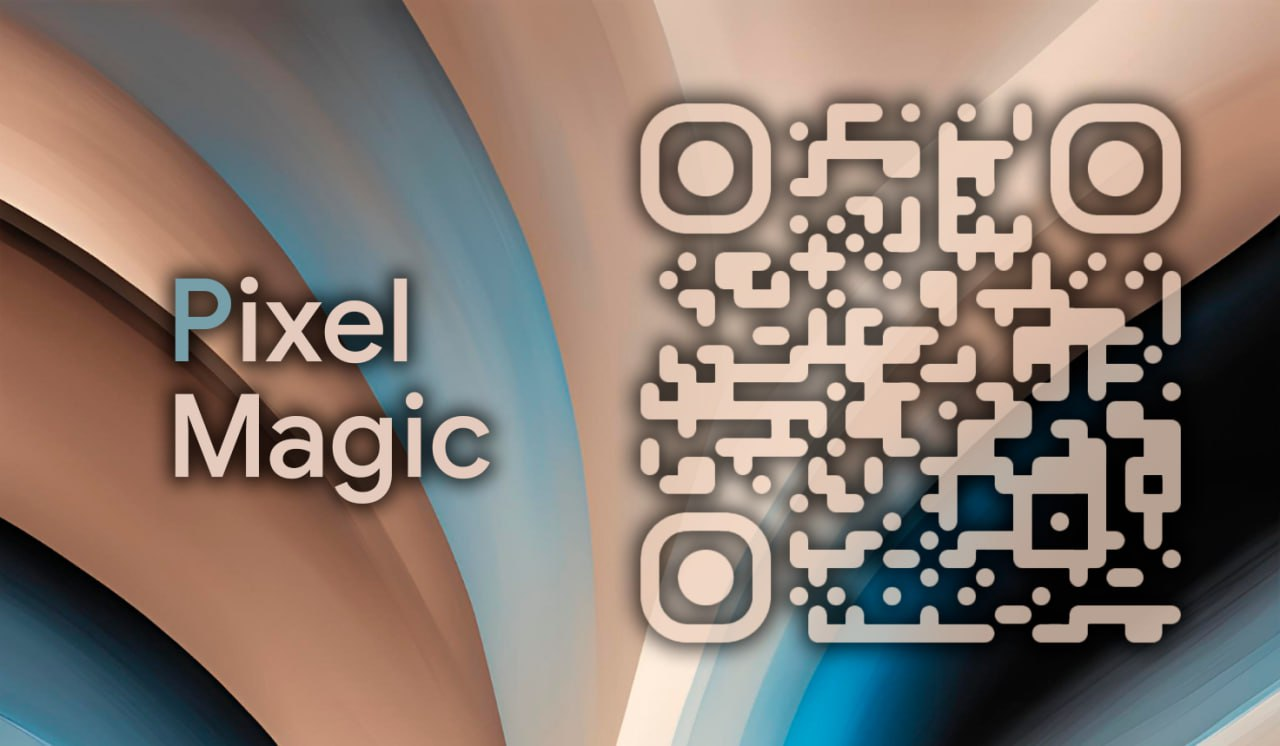
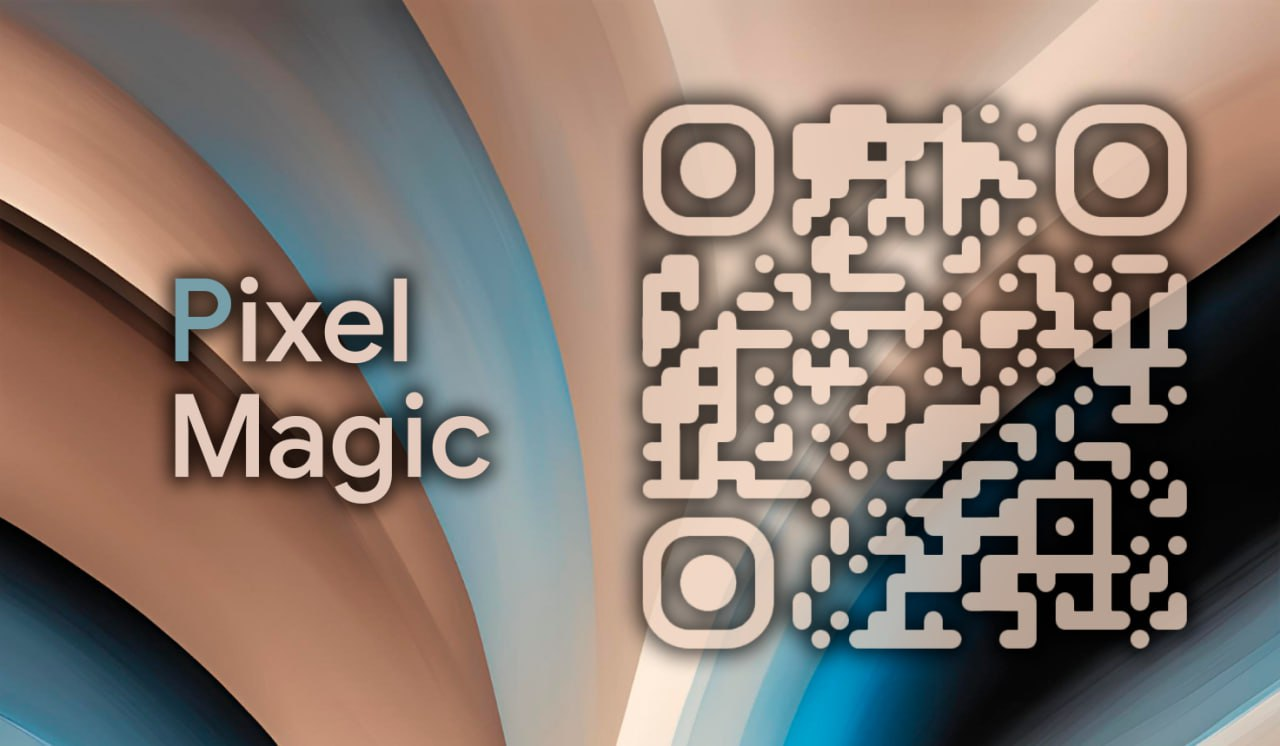
update pixelmagic

Changed region(s): [[0.4688, 0.1233, 0.9375, 0.8941]]

diff --git a/blogs/news.md b/blogs/news.md
@@ -1,6 +1,7 @@
 # News - Updates, releases, and more.
 
 ## Posts
+- [06-05-2025 - QPR2 Update for PixelMagic.](/blog/news#06-05-2025---qpr2-update-for-pixelmagic.)
 - [04-05-2025 - PixelOS gets updated.](/blog/news#04-05-2025---pixelos-gets-updated.)
 - [23-04-2025 - Bug fix release for AxionOS.](/blog/news#23-04-2025---bug-fix-release-for-axionos.)
 - [16-04-2025 - New PixelOS update, website status gets better.](/blog/news#16-04-2025---new-pixelos-update,-website-status-gets-better.)
@@ -98,6 +99,9 @@
 - [03-02-2024 - LineageOS 21 Released, EvolutionX 13 Discontinued.](/blog/news#03-02-2024---lineageos-21-released,-evolutionx-13-discontinued.)
 
 ---
+
+## 06-05-2025 - QPR2 Update for PixelMagic.
+Magicxavi released an update for PixelMagic, which brings QPR2 and a few features. For more, check [changelog](/roms/PixelMagic_15#changelog).
 
 ## 04-05-2025 - PixelOS gets updated.
 PixelOS gets updated and includes April patch, and a few more things. For more details, check the [changelog](/roms/PixelOS_15).
